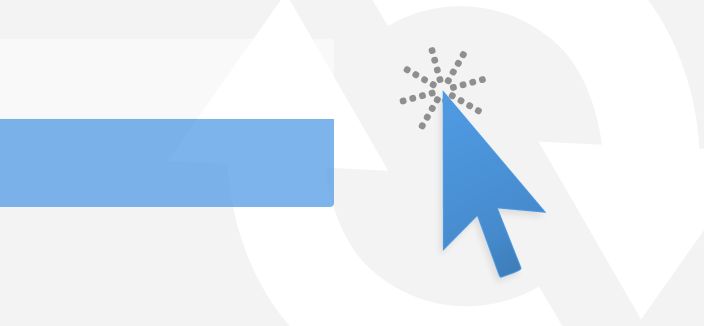
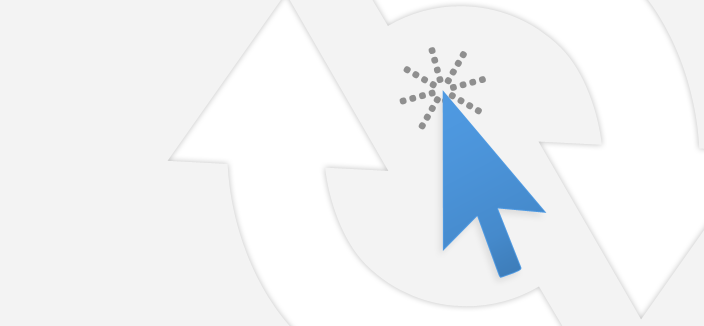
home page slider design fixed / navigation bar animation

Changed region(s): [[0.0, 0.3374, 0.5, 0.6442], [0.75, 0.4294, 0.7812, 0.4601], [0.5312, 0.4908, 0.5625, 0.5215]]

diff --git a/CiviKey/Content/Site.css b/CiviKey/Content/Site.css
@@ -549,16 +549,12 @@ ul
 {
     height: 3px;
     background-color: #fff;
-    display: block;
+    opacity:0;
     position: relative;
-    transition: width 2s;
-    -moz-transition: width 2s; /* Firefox 4 */
-    -webkit-transition: width 2s; /* Safari and Chrome */
-    -o-transition: width 2s; /* Opera */
-    -moz-transition-property: all;/* Firefox 4 */
-    -webkit-transition-property: all;/* Safari and Chrome */
-    -o-transition-property: all;/* Opera */
-    transition-property: all;
+    -moz-transition-property: opacity;/* Firefox 4 */
+    -webkit-transition-property: opacity;/* Safari and Chrome */
+    -o-transition-property: opacity;/* Opera */
+    transition-property: opacity;
     -moz-transition-duration: .5s;/* Firefox 4 */
     -webkit-transition-duration: .5s;/* Safari and Chrome */
     -o-transition-duration: .3s;/* Opera */
@@ -571,6 +567,34 @@ ul
     -webkit-transition-delay: 0s;/* Safari and Chrome */
     -o-transition-delay: 0s;/* Opera */
     transition-delay: 0s;
+    
+    
+}
+
+.moving-elem-all
+{
+    height: 3px;
+    background-color: #fff;
+    opacity:0;
+    position: relative;
+    -moz-transition-property: all;/* Firefox 4 */
+    -webkit-transition-property: all;/* Safari and Chrome */
+    -o-transition-property: all;/* Opera */
+    transition-property: opacity;
+    -moz-transition-duration: .5s;/* Firefox 4 */
+    -webkit-transition-duration: .5s;/* Safari and Chrome */
+    -o-transition-duration: .3s;/* Opera */
+    transition-duration: .3s;
+    -moz-transition-timing-function: ease;/* Firefox 4 */
+    -webkit-transition-timing-function: ease;/* Safari and Chrome */
+    -o-transition-timing-function: ease;/* Opera */
+    transition-timing-function: ease;
+    -moz-transition-delay: 0s;/* Firefox 4 */
+    -webkit-transition-delay: 0s;/* Safari and Chrome */
+    -o-transition-delay: 0s;/* Opera */
+    transition-delay: 0s;
+    
+    
 }
 
 .Project
@@ -1428,7 +1452,7 @@ label
 {
     width:600px;
     max-height:600px;
-    padding-top:20px;
+    padding-top:15px;
     padding-bottom:20px;
     margin:10px 0px 0px 10px;
     background-color:#f2f2f2;
@@ -1783,13 +1807,15 @@ ul#menu li.menuelem.selected a
 
 .fb-like
 {
-    float:right;
+    float:left;
     margin-right:5px;
+    margin-left:15px;
+    margin-bottom:15px;
 }
 
 .twitter-share-button
 {
-    float:right;
+    float:left;
     margin-top:2px;
 }
 
@@ -2033,18 +2059,36 @@ input[type="radio"]:checked + label, input[type="checkbox"]:checked + label
 
 .slide-text-top
 {
-    width:300px;
-    height:80px;
+    border-top-right-radius:4px;
+    -moz-border-radius-topright:4px;
+    -webkit-border-top-right-radius:4px;
+    width: 300px;
+    height: 75px;
     padding-left: 20px;
-    padding-top: 5px;
+    padding-top: 10px;
+    background-color:rgba(255,255,255,0.5);
 }
 
 .slide-text-bottom
 {
-    width:300px;
+    border-bottom-right-radius:4px;
+    -moz-border-radius-bottomright:4px;
+    -webkit-border-bottom-right-radius:4px;
+    width:280px;
     height:80px;
     padding-left: 20px;
+    padding-right:20px;
     display:table-cell; vertical-align:middle;
+}
+
+.slide-text-bottom.clavier
+{
+    background-color:rgba(38,194,0,0.75);
+}
+
+.slide-text-bottom.autoclick
+{
+    background-color:rgba(80,155,228,0.75);
 }
 
 .slide-text-bottom p
@@ -2058,9 +2102,9 @@ input[type="radio"]:checked + label, input[type="checkbox"]:checked + label
 
 .slide-text-top p
 {
-    font-size:46px;
+    font-size:40px;
     margin:0;
-    font-family:Tahoma;
+    font-family:Verdana;
 }
 
 .slide-text-autoclick

diff --git a/CiviKey/Scripts/layout.js b/CiviKey/Scripts/layout.js
@@ -28,30 +28,44 @@
 
         moElem.css('width', width);
         moElem.css('left', left);
-        moElem.css('display', 'block');
+        moElem.css('opacity', '1');
+        //moElem.css('display', 'block');
     }
-    else moElem.css('display', 'none');
+    else {
+        moElem.css('opacity', '0');
+        //moElem.css('display', 'none');
+    }
 
     $('.menuelem').mouseover(function () {
         var left = $(this).position().left;
         var width = $(this).width() + 40;
-
         moElem.css('width', width);
         moElem.css('left', left);
-        moElem.css('display', 'block');
+        moElem.css('opacity', '1');
 
+        //moElem.css('display', 'block');
+
+    });
+    $('#menu').mouseover(function () {
+        if ($('.moving-elem').css('opacity') != 0) {
+            moElem.addClass('moving-elem-all');
+        } else {
+            moElem.removeClass('moving-elem-all');
+        }
     });
 
     $('.header-menu-container').mouseleave(function () {
-        if (selectedItem.length == 0) {
-            moElem.css('display', 'none');
+        if (selectedItem.length<0.2) {
+            moElem.css('opacity', '0');
+            //moElem.css('display', 'none');
         } else {
             var left = selectedItem.position().left;
             var width = selectedItem.width() + 40;
 
             moElem.css('width', width);
             moElem.css('left', left);
-            moElem.css('display', 'block');
+            moElem.css('opacity', '1');
+            //moElem.css('display', 'block');
         }
     });
 });
